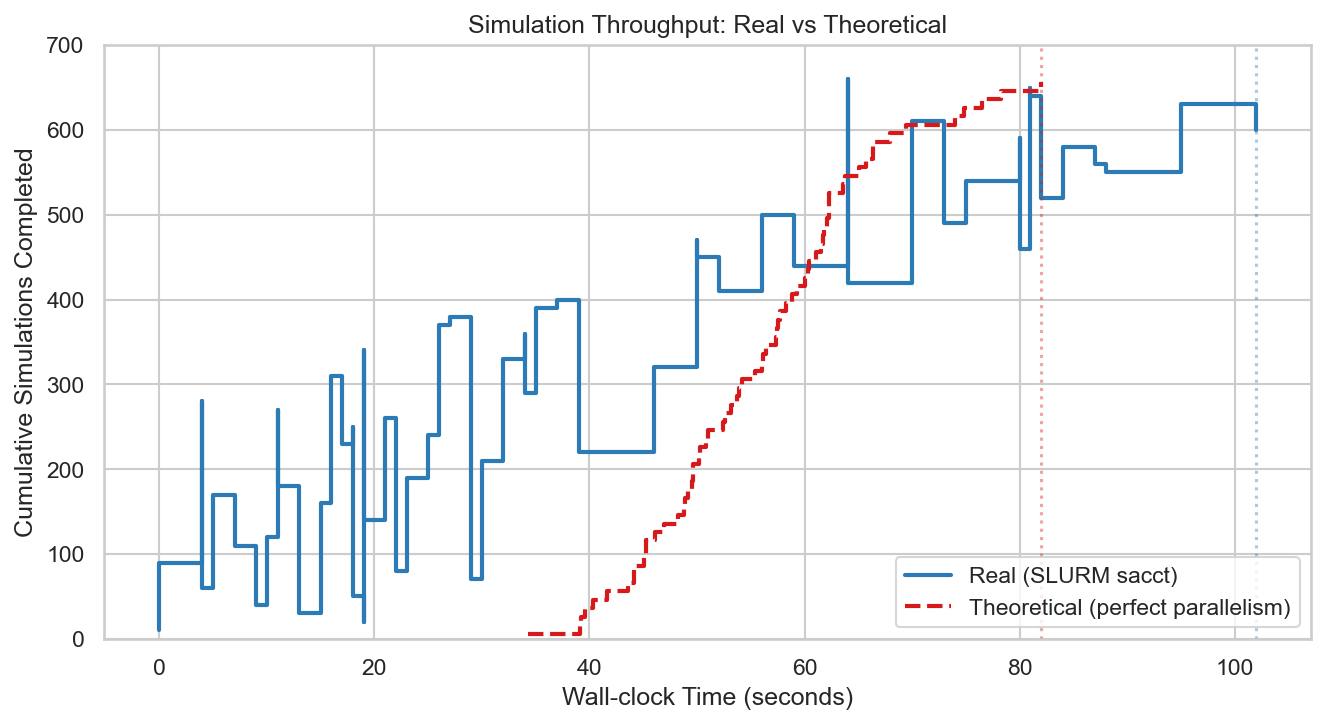
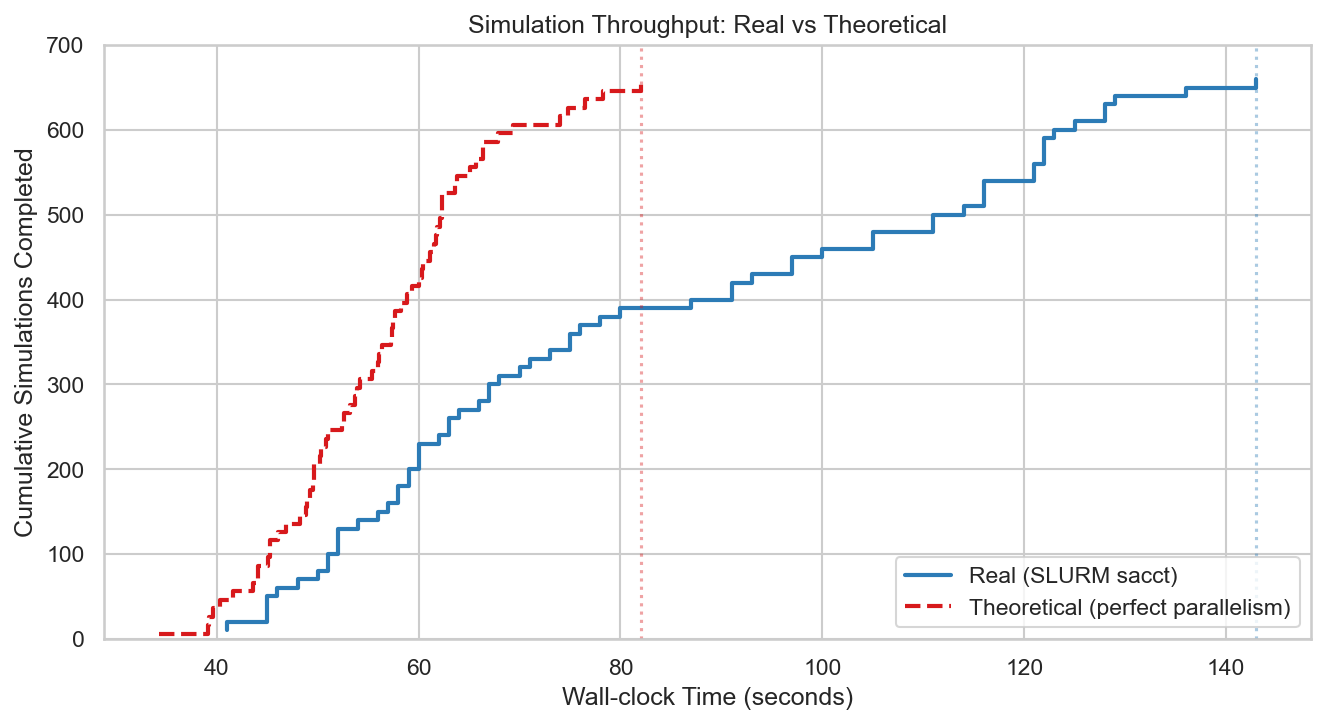
fix throughput chart

diff --git a/SugarCluster/timing_analysis.py b/SugarCluster/timing_analysis.py
@@ -27,8 +27,8 @@ def compute_batch_durations(sim_df):
 def compute_cumulative_real(slurm_df):
     df = slurm_df.copy()
     df["end_time"] = pd.to_datetime(df["end_time"])
-    df = df.sort_values("end_time")
-    start = df["end_time"].min()
+    df = df.sort_values("end_time").reset_index(drop=True)  # reset so index = 0,1,2,...
+    start = pd.to_datetime(slurm_df["start_time"]).min()    # anchor t=0 to first job start
     df["t_seconds"] = (df["end_time"] - start).dt.total_seconds()
     df["cum_sims"] = (df.index + 1) * 10
     return df[["t_seconds", "cum_sims"]]